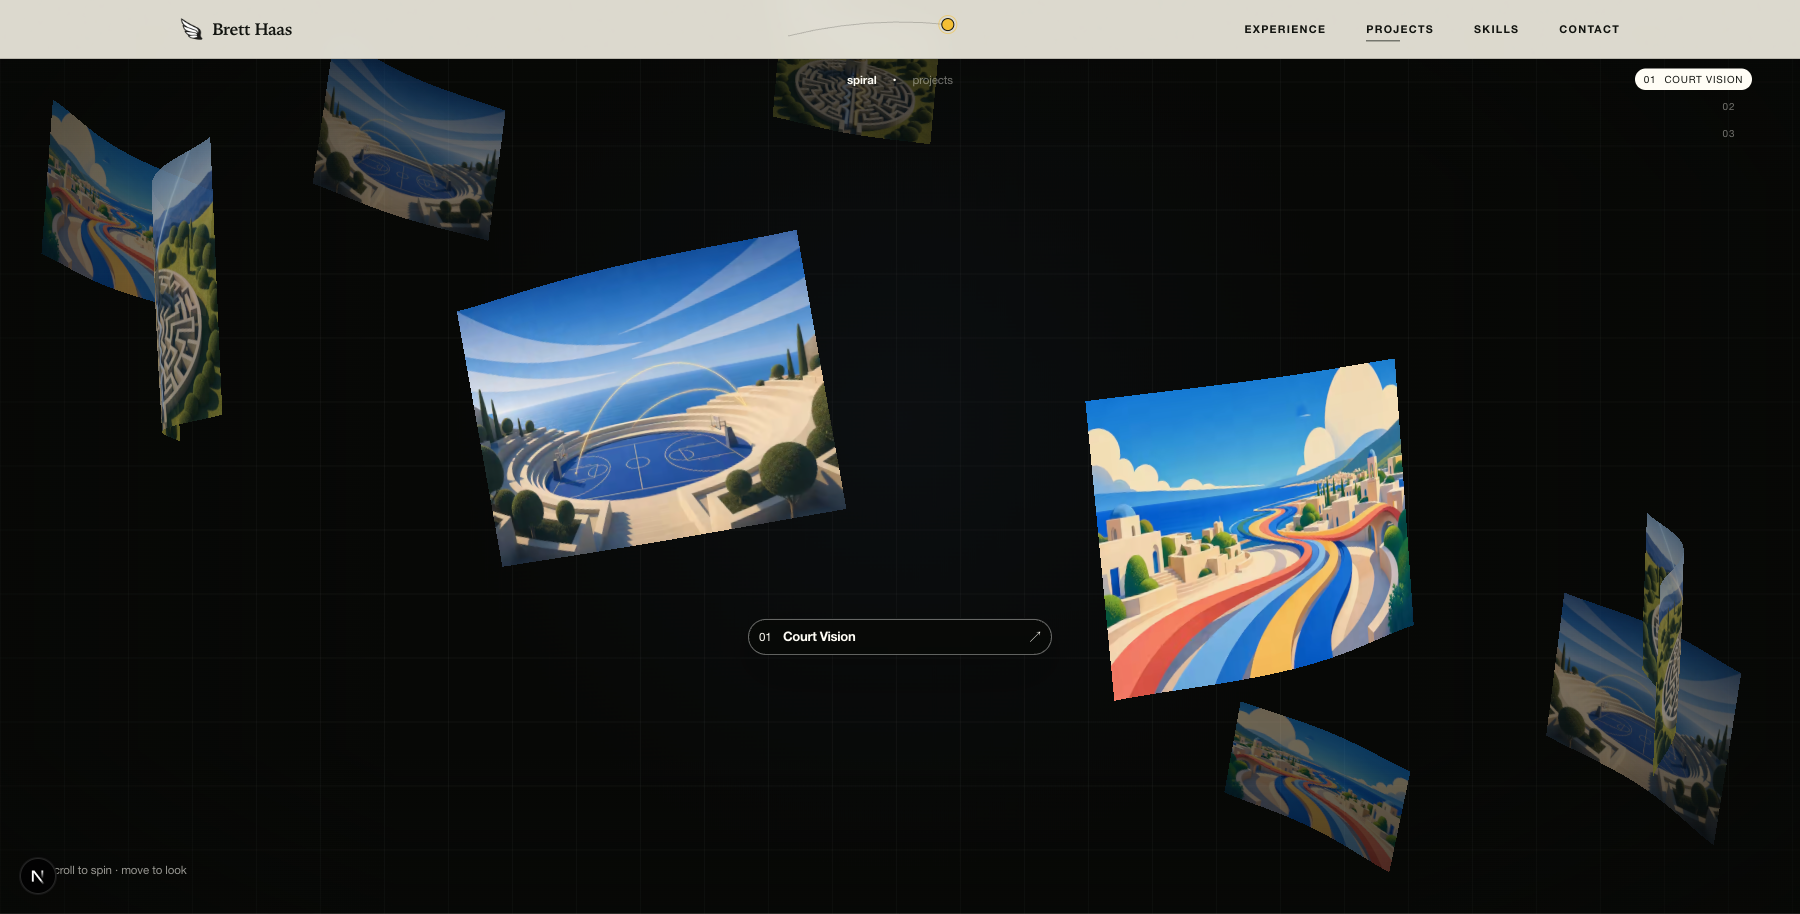
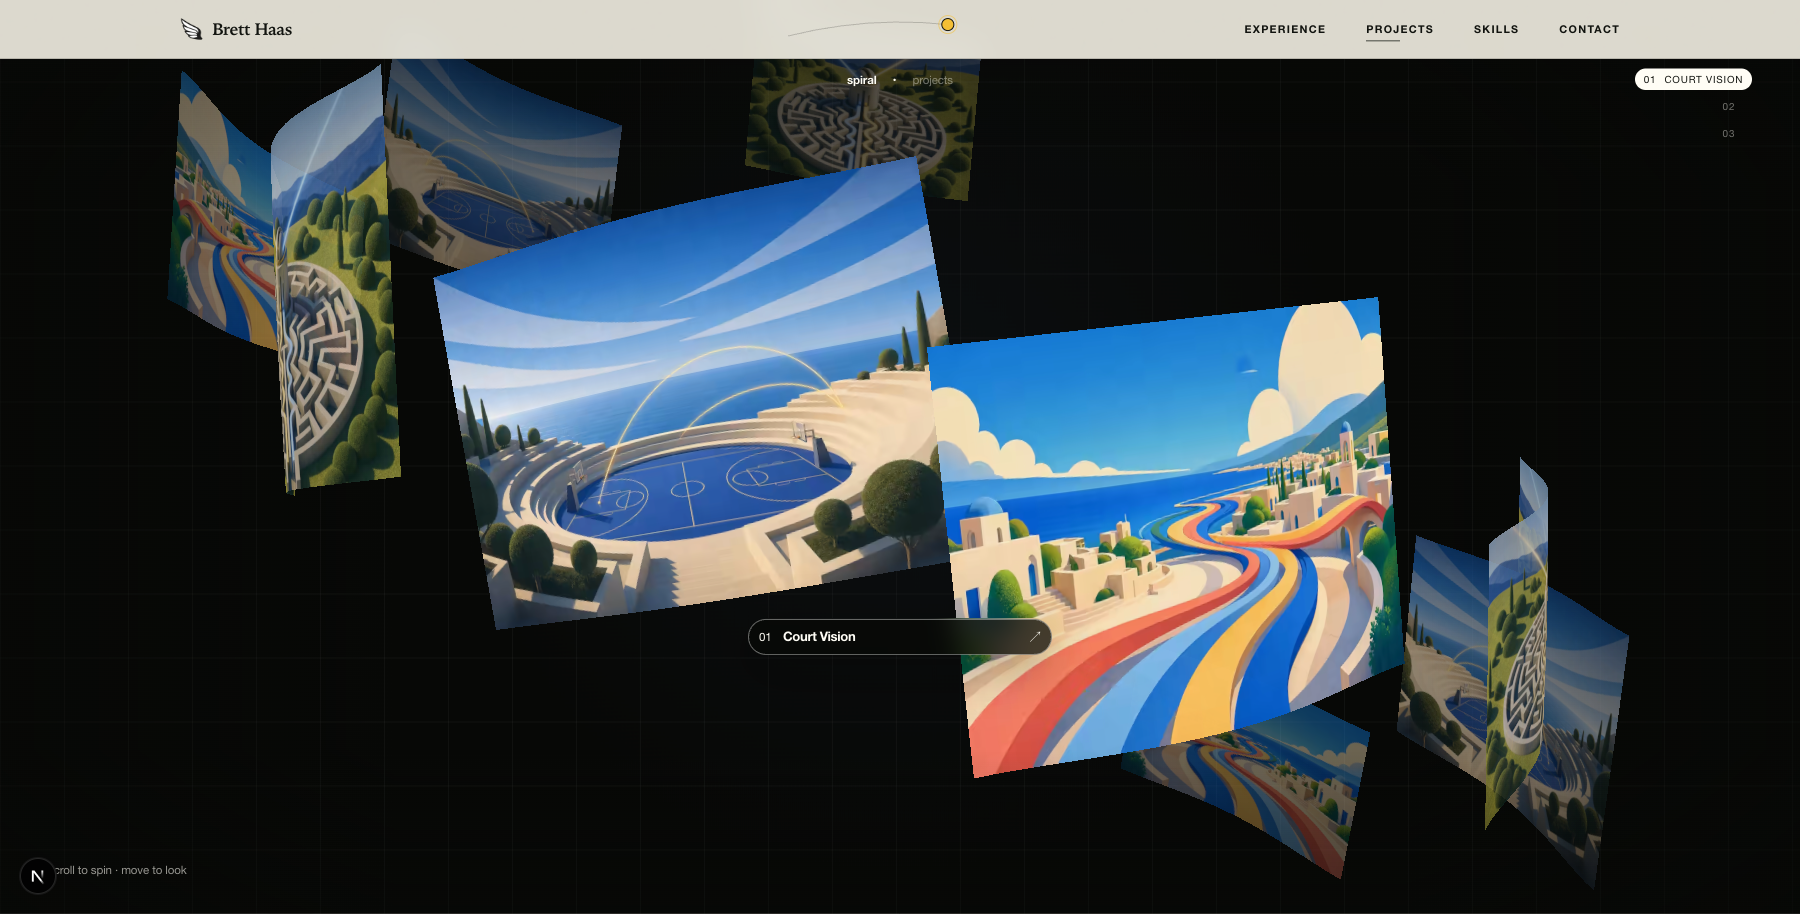
Tighten project helix to reference density

diff --git a/lib/project-spiral.test.ts b/lib/project-spiral.test.ts
@@ -60,14 +60,15 @@ describe('project spiral choreography', () => {
       upperHalfTurn[4].y * layout.verticalPitch,
     )
 
-    expect(outermostCenterY).toBeGreaterThanOrEqual(viewport.height * 0.4)
-    expect(outermostCenterY).toBeLessThanOrEqual(viewport.height * 0.46)
+    expect(outermostCenterY).toBeGreaterThanOrEqual(viewport.height * 0.39)
+    expect(outermostCenterY).toBeLessThanOrEqual(viewport.height * 0.42)
     expect(upperHalfTurn[2].x).toBeGreaterThan(upperHalfTurn[4].x)
     expect(upperHalfTurn[4].depth).toBeLessThan(-0.9)
   })
 
-  it('keeps neighboring front cards separated at the reference viewport', () => {
-    const layout = getProjectSpiralLayout({ height: 7.68, width: 15.1 })
+  it('packs the front cards with only a narrow reference-sized gap', () => {
+    const viewport = { height: 7.68, width: 15.1 }
+    const layout = getProjectSpiralLayout(viewport)
     const front = getProjectSpiralFrame({
       phase: 0,
       slotCount: 9,
@@ -81,70 +82,48 @@ describe('project spiral choreography', () => {
       velocity: 0,
     })
     const horizontalSeparation = Math.abs(front.x - neighbor.x) * layout.horizontalRadius
-    const combinedHalfWidth = (
-      layout.targetCardWidth * front.scale
-      + layout.targetCardWidth * neighbor.scale
+    const projectedHalfWidth = (
+      layout.targetCardWidth * front.scale * Math.abs(Math.cos(front.rotationY))
+      + layout.targetCardWidth
+        * neighbor.scale
+        * Math.abs(Math.cos(neighbor.rotationY))
     ) / 2
-    const verticalSeparation = Math.abs(front.y - neighbor.y) * layout.verticalPitch
-    const combinedHalfHeight = (
-      layout.targetCardWidth * front.scale / (1200 / 848)
-      + layout.targetCardWidth * neighbor.scale / (1200 / 686)
-    ) / 2
+    const horizontalGap = horizontalSeparation - projectedHalfWidth
 
-    expect(layout.targetCardWidth).toBeLessThanOrEqual(layout.horizontalRadius * 0.75)
-    expect(
-      horizontalSeparation > combinedHalfWidth
-      || verticalSeparation > combinedHalfHeight,
-    ).toBe(true)
+    expect(layout.horizontalRadius).toBeGreaterThanOrEqual(viewport.width * 0.35)
+    expect(layout.horizontalRadius).toBeLessThanOrEqual(viewport.width * 0.365)
+    expect(layout.targetCardWidth).toBeGreaterThanOrEqual(viewport.width * 0.23)
+    expect(layout.targetCardWidth).toBeLessThanOrEqual(viewport.width * 0.25)
+    expect(horizontalGap).toBeGreaterThanOrEqual(viewport.width * 0.002)
+    expect(horizontalGap).toBeLessThanOrEqual(viewport.width * 0.01)
   })
 
-  it('keeps a visible gap between every neighboring desktop card', () => {
+  it('keeps the compact desktop proportions stable through each project step', () => {
     const viewport = { height: 7.68, width: 15.1 }
     const layout = getProjectSpiralLayout(viewport)
-    const aspectRatios = [1200 / 848, 1200 / 686, 1200 / 916]
-    const minimumGap = viewport.width * 0.003
 
-    for (const phase of [0, 0.5, 1, 1.5, 2, 2.5]) {
-      const frames = Array.from({ length: 9 }, (_, slotIndex) => ({
-        aspectRatio: aspectRatios[PROJECT_SPIRAL_SLOT_ORDER[slotIndex]],
-        frame: getProjectSpiralFrame({
-          phase,
-          slotCount: 9,
-          slotIndex,
-          velocity: 0,
-        }),
-      })).sort((a, b) => a.frame.y - b.frame.y)
-
-      for (let index = 1; index < frames.length; index += 1) {
-        const previous = frames[index - 1]
-        const current = frames[index]
-        const horizontalSeparation = Math.abs(
-          previous.frame.x - current.frame.x,
-        ) * layout.horizontalRadius
-        const projectedHalfWidths = (
-          layout.targetCardWidth
-            * previous.frame.scale
-            * Math.abs(Math.cos(previous.frame.rotationY))
-          + layout.targetCardWidth
-            * current.frame.scale
-            * Math.abs(Math.cos(current.frame.rotationY))
-        ) / 2
-        const verticalSeparation = Math.abs(
-          previous.frame.y - current.frame.y,
-        ) * layout.verticalPitch
-        const projectedHalfHeights = (
-          layout.targetCardWidth * previous.frame.scale / previous.aspectRatio
-          + layout.targetCardWidth * current.frame.scale / current.aspectRatio
+    for (const phase of [0, 1, 2]) {
+      const frontIndex = phase
+      const front = getProjectSpiralFrame({
+        phase,
+        slotCount: 9,
+        slotIndex: frontIndex,
+        velocity: 0,
+      })
+      const next = getProjectSpiralFrame({
+        phase,
+        slotCount: 9,
+        slotIndex: frontIndex + 1,
+        velocity: 0,
+      })
+      const horizontalGap = Math.abs(front.x - next.x) * layout.horizontalRadius
+        - layout.targetCardWidth * (
+          front.scale * Math.abs(Math.cos(front.rotationY))
+          + next.scale * Math.abs(Math.cos(next.rotationY))
         ) / 2
 
-        expect(
-          horizontalSeparation - projectedHalfWidths >= minimumGap
-          || verticalSeparation - projectedHalfHeights >= minimumGap,
-          `phase ${phase}, neighboring frames ${index - 1}/${index}, `
-            + `horizontal gap ${horizontalSeparation - projectedHalfWidths}, `
-            + `vertical gap ${verticalSeparation - projectedHalfHeights}`,
-        ).toBe(true)
-      }
+      expect(horizontalGap).toBeGreaterThanOrEqual(viewport.width * 0.002)
+      expect(horizontalGap).toBeLessThanOrEqual(viewport.width * 0.01)
     }
   })
 

diff --git a/lib/project-spiral.ts b/lib/project-spiral.ts
@@ -47,9 +47,9 @@ export function getProjectSpiralLayout(
   isMobile = false,
 ): ProjectSpiralLayout {
   return {
-    horizontalRadius: Math.min(viewport.width * (isMobile ? 0.52 : 0.44), isMobile ? 2.3 : 6.8),
-    targetCardWidth: Math.min(viewport.width * (isMobile ? 0.42 : 0.17), isMobile ? 1.9 : 3.2),
-    verticalPitch: viewport.height * (isMobile ? 0.29 : 0.23),
+    horizontalRadius: Math.min(viewport.width * (isMobile ? 0.52 : 0.36), isMobile ? 2.3 : 5.7),
+    targetCardWidth: Math.min(viewport.width * (isMobile ? 0.42 : 0.24), isMobile ? 1.9 : 3.8),
+    verticalPitch: viewport.height * (isMobile ? 0.29 : 0.21),
   }
 }
 

diff --git a/design-refs/VERIFICATION.md b/design-refs/VERIFICATION.md
@@ -619,3 +619,34 @@ are complete.
   eight-route production static export pass. The updated spiral journey verifies
   the A → B → C → A route sequence and passes in Chromium, Firefox, desktop
   WebKit, and iPhone WebKit with no application-origin console errors.
+
+## July 25, 2026 — Reference-density refinement
+
+- The five-state comparison from the visible-helix pass was reopened beside the
+  2160 px-wide reference. Its 44% radius and 17% base card width preserved a
+  curve but scattered the planes across excessive black space. The reference's
+  two dominant planes instead occupy approximately 31–34% of its width with a
+  narrow projected seam between them.
+- Desktop now uses a 36% viewport-width radius, 24% base card width, and 21%
+  viewport-height pitch. Depth scaling makes the front plane approximately 26%
+  of the viewport width, while its immediate neighbor retains a tested
+  0.2–1% projected horizontal gap. The fourth slot sits 40.32% of a viewport
+  height from center, so the return side remains visibly curved.
+- A live 1800 × 914 browser pass measured the nearest visible seams at
+  approximately 18–22 px. The planes read as one compact helix without merging,
+  matching the density of the reference rather than the previous diagonal
+  satellite layout.
+- `site-screenshots/spiral-curve-0.png` through
+  `spiral-curve-100.png` were recaptured from the real WebGL scene at the five
+  required scroll states. `comparison.png` was rebuilt and opened at original
+  resolution; all five states preserve the compact cluster, upright artwork,
+  black seams, visible return arc, and unchanged A → B → C sequence.
+- Mobile ratios, the GLB, textures, materials, draw-call count, and render loop
+  remain unchanged. The correction is limited to desktop layout constants and
+  their reference-density regression tests.
+- Final verification remains 237 tests across 57 files with 90.13% statements,
+  80.45% branches, 83.02% functions, and 93.44% lines. TypeScript, the
+  eight-route production static export, deployment preparation, `git diff
+  --check`, and the isolated spiral journey all pass. The journey is green in
+  Chromium, Firefox, desktop WebKit, and iPhone WebKit with no
+  application-origin console errors.

diff --git a/design-refs/ANALYSIS.md b/design-refs/ANALYSIS.md
@@ -989,6 +989,29 @@ portfolio's existing Experience, Projects, and Skills artwork.
   times around the nine-card helix. Reverse movement naturally reads
   `C, B, A`; no adjacent or alternating `A, B, A` sequence is permitted.
 
+## July 25 reference-density correction
+
+- The July 24 visible-turn capture overcorrects the non-contact requirement:
+  its approximately 44% viewport-width radius and 17% target card width make
+  each card read as a separate satellite. In the reference, the large readable
+  planes form a single cluster with only a narrow strip of black between their
+  projected side edges.
+- At the 2160 px-wide reference capture, the two dominant front planes are
+  approximately 31–34% of the viewport width and their nearest projected edges
+  are separated by roughly 16 px. The adaptation can retain slightly smaller
+  project cards for metadata legibility, but the front card must grow to
+  approximately 25–27% of the viewport after depth scaling.
+- Desktop implementation target: approximately 35–37% viewport-width radius,
+  23–25% base card width, and a 0.2–1% viewport-width projected gap between
+  the front card and its immediate neighbor. This preserves visible negative
+  space without scattering the sequence across the canvas.
+- Tighten the fourth-slot center to approximately 39–42% of viewport height.
+  The return side must still be visible, but its samples should feel connected
+  to the same helix rather than a diagonal chain of isolated planes.
+- Keep the mobile ratios unchanged until a mobile comparison demonstrates the
+  same density mismatch; this correction responds specifically to the supplied
+  wide-screen reference and production capture.
+
 ## Implementation targets
 
 ### Geometry and naming
